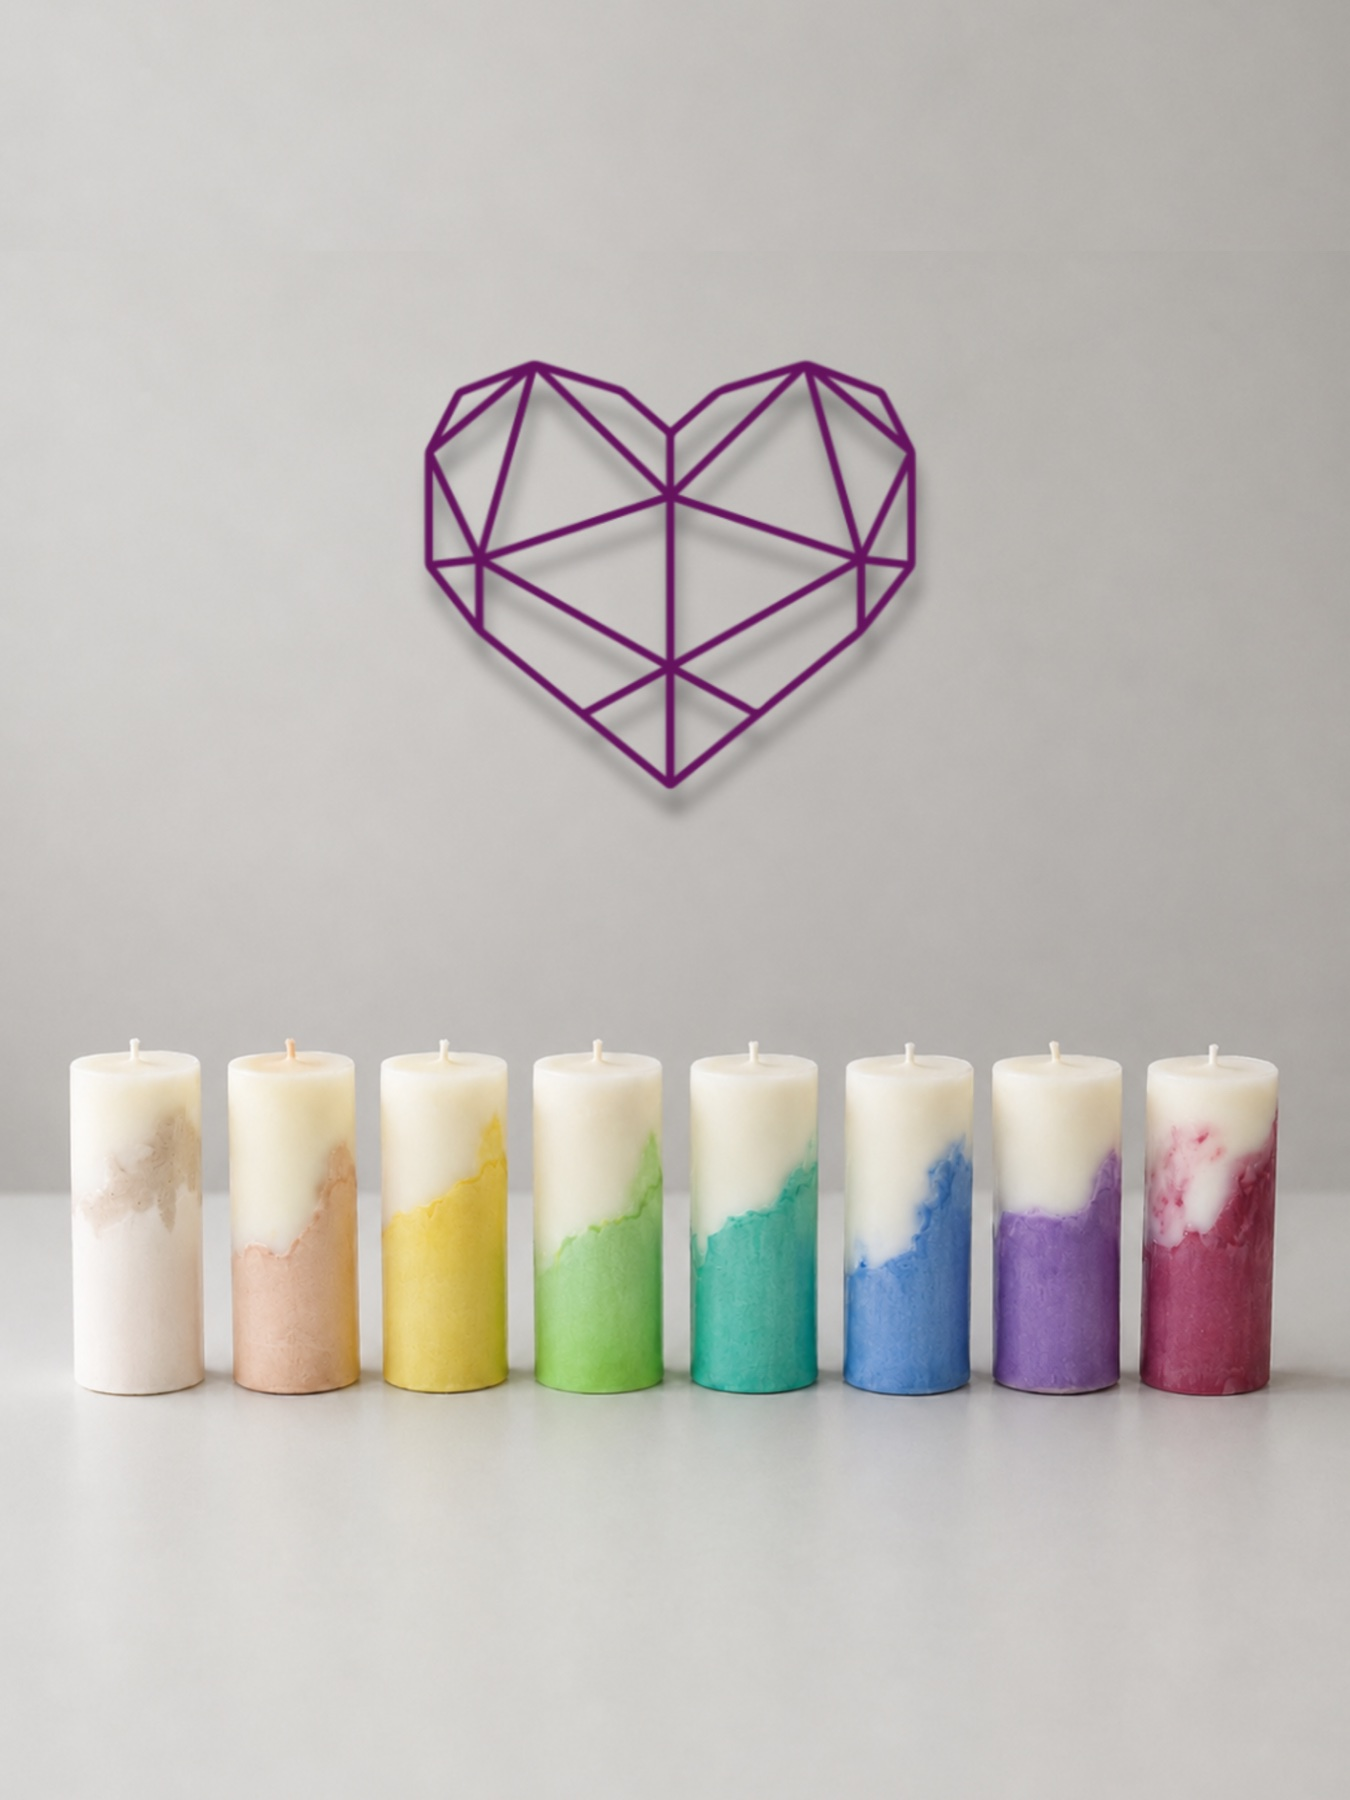
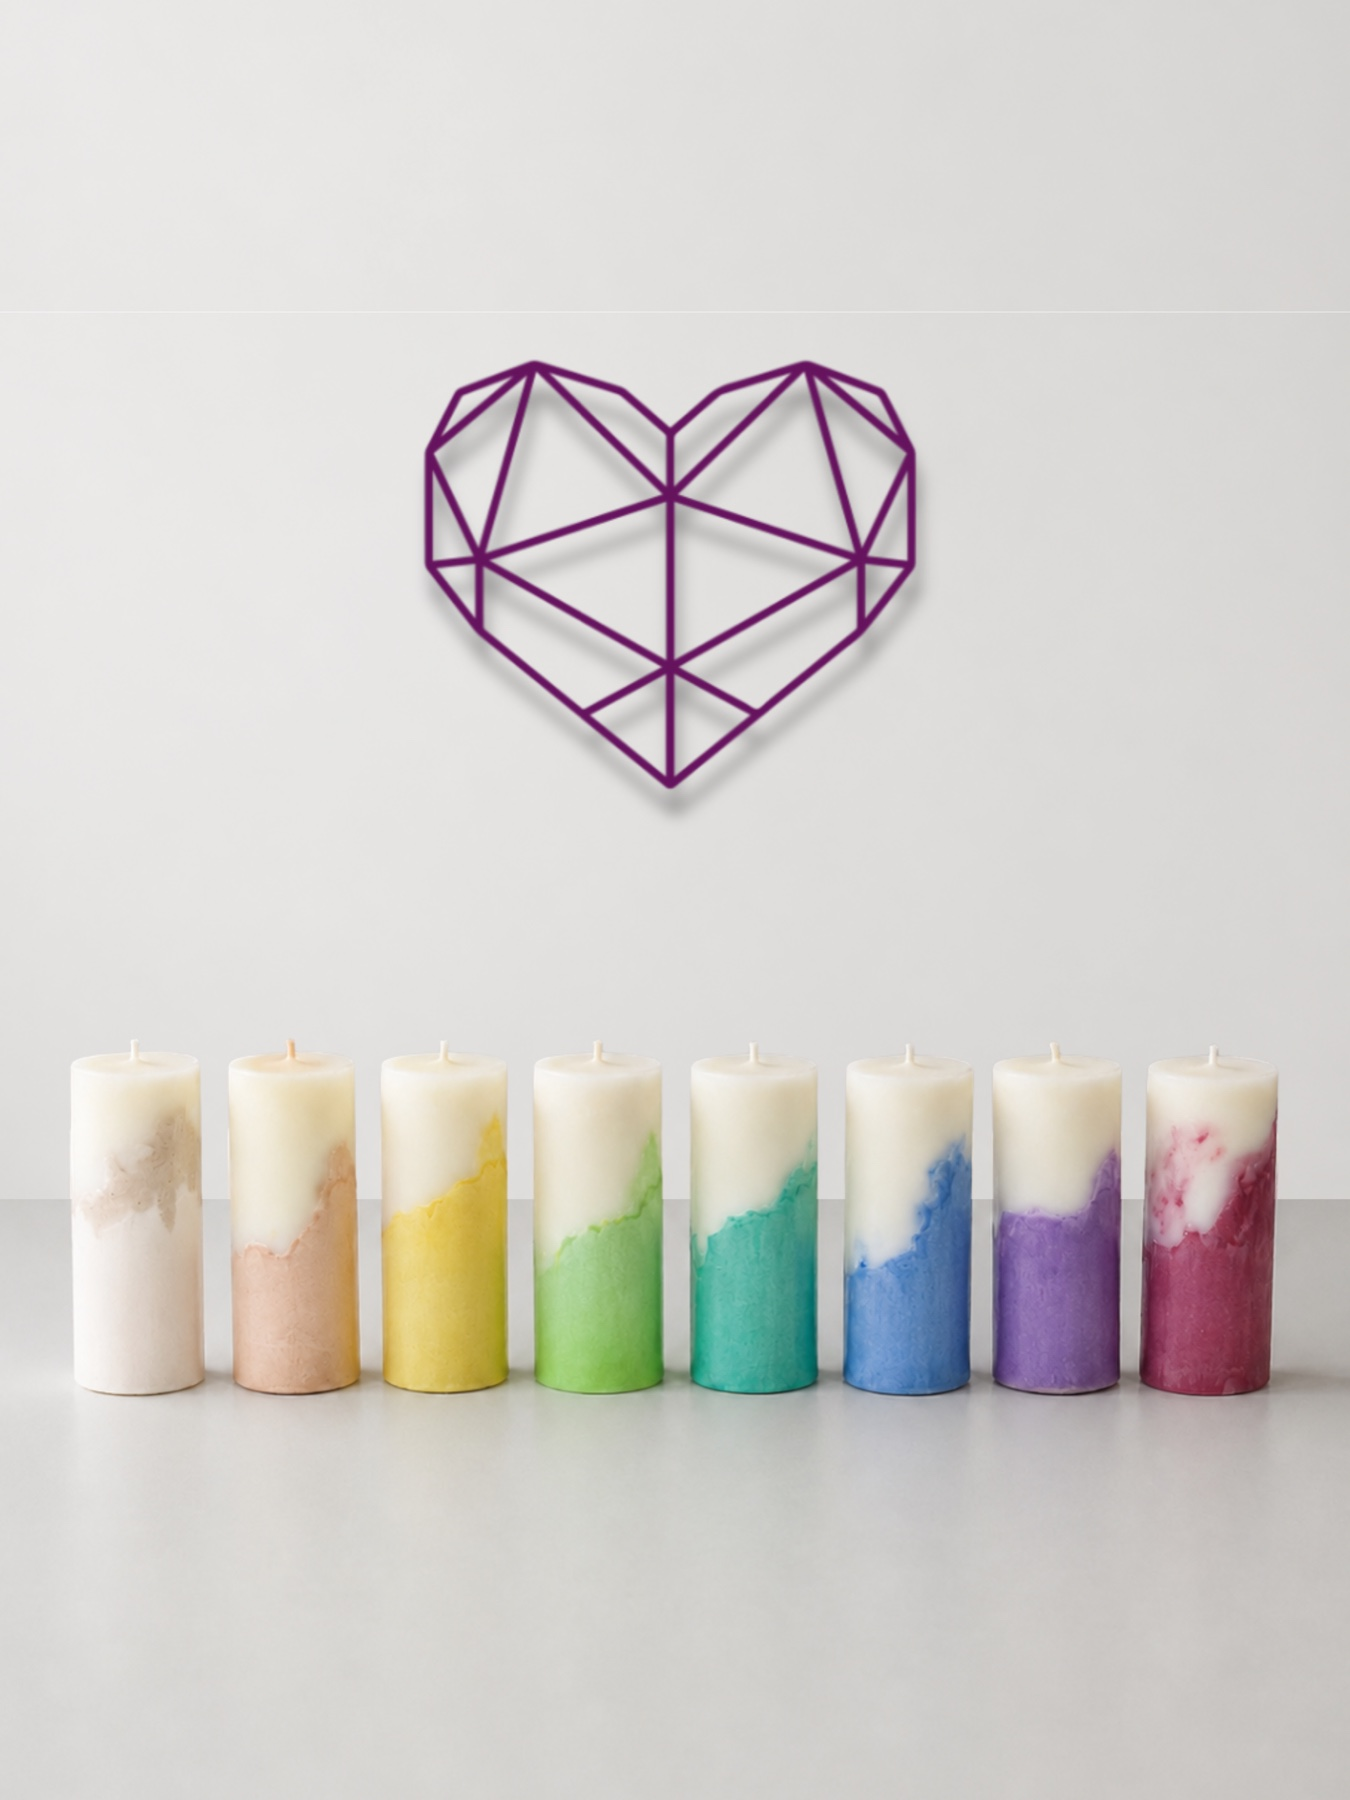
Update product image mappings

diff --git a/index.html b/index.html
@@ -5729,7 +5729,7 @@
       <div class="product-card">
         <div class="product-img has-photo">
           <span class="product-tag">Eventos</span>
-          <img src="assets/products/memoria-perfumada.jpg" alt="Memória Perfumada, lembrança de evento Love Essences" loading="lazy"/>
+          <img src="assets/products/memoria-perfumada.png" alt="Memória Perfumada, lembrança de evento Love Essences" loading="lazy"/>
         </div>
         <div class="product-info">
           <h3 class="product-name">Memória Perfumada</h3>
@@ -6343,7 +6343,7 @@
         </div>
       </div>
       <div class="product-card group rounded-[26px] bg-white/95 shadow-[0_18px_48px_rgba(102,19,94,0.10)] transition duration-300 hover:-translate-y-1 hover:shadow-[0_28px_70px_rgba(102,19,94,0.16)]" data-category="eventos" data-occasion="casamentos-batizados,empresas">
-        <div class="product-img has-photo relative flex items-center justify-center"><img src="assets/products/luz-serena-capa.jpg" alt="Luz Serena, vela pilar personalizada Love Essences" loading="lazy"/></div>
+        <div class="product-img has-photo relative flex items-center justify-center"><img src="assets/products/luz-serena.png" alt="Luz Serena, vela pilar personalizada Love Essences" loading="lazy"/></div>
         <div class="product-info">
           <h3 class="product-name">Luz Serena</h3>
           <p class="product-desc">Vela delicada e perfumada, pensada para iluminar a mesa e deixar uma lembrança doce nos convidados.</p>
@@ -6352,7 +6352,7 @@
         </div>
       </div>
       <div class="product-card group rounded-[26px] bg-white/95 shadow-[0_18px_48px_rgba(102,19,94,0.10)] transition duration-300 hover:-translate-y-1 hover:shadow-[0_28px_70px_rgba(102,19,94,0.16)]" data-category="eventos" data-occasion="casamentos-batizados,empresas">
-        <div class="product-img has-photo relative flex items-center justify-center"><img src="assets/products/doce-luz.jpg" alt="Doce Luz, vela bubble personalizada Love Essences" loading="lazy"/></div>
+        <div class="product-img has-photo relative flex items-center justify-center"><img src="assets/products/doce-luz.png" alt="Doce Luz, vela bubble personalizada Love Essences" loading="lazy"/></div>
         <div class="product-info">
           <h3 class="product-name">Doce Luz</h3>
           <p class="product-desc">Vela bubble com tag e cordão ou com caixa personalizada. Mínimo 15 unidades. Uma lembrança suave e memorável.</p>
@@ -6361,7 +6361,7 @@
         </div>
       </div>
       <div class="product-card group rounded-[26px] bg-white/95 shadow-[0_18px_48px_rgba(102,19,94,0.10)] transition duration-300 hover:-translate-y-1 hover:shadow-[0_28px_70px_rgba(102,19,94,0.16)]" data-category="eventos" data-occasion="casamentos-batizados,empresas">
-        <div class="product-img has-photo relative flex items-center justify-center"><img src="assets/products/memoria-perfumada.jpg" alt="Memória Perfumada, vela em frasco personalizada Love Essences" loading="lazy"/></div>
+        <div class="product-img has-photo relative flex items-center justify-center"><img src="assets/products/memoria-perfumada.png" alt="Memória Perfumada, vela em frasco personalizada Love Essences" loading="lazy"/></div>
         <div class="product-info">
           <h3 class="product-name">Memória Perfumada</h3>
           <p class="product-desc">Vela em frasco com rolha. Aromas suaves, escolhidos para combinar com a ocasião. Encomenda mínima de 10 unidades.</p>
@@ -6370,7 +6370,7 @@
         </div>
       </div>
       <div class="product-card group rounded-[26px] bg-white/95 shadow-[0_18px_48px_rgba(102,19,94,0.10)] transition duration-300 hover:-translate-y-1 hover:shadow-[0_28px_70px_rgba(102,19,94,0.16)]" data-category="eventos" data-occasion="casamentos-batizados,empresas,pequeninos">
-        <div class="product-img has-photo relative flex items-center justify-center"><img src="assets/products/bilhete-perfumado.jpg" alt="Bilhete Perfumado, sabonete floral com cartão Love Essences" loading="lazy"/></div>
+        <div class="product-img has-photo relative flex items-center justify-center"><img src="assets/products/bilhete-perfumado.png" alt="Bilhete Perfumado, sabonete floral com cartão Love Essences" loading="lazy"/></div>
         <div class="product-info">
           <h3 class="product-name">Bilhete Perfumado</h3>
           <p class="product-desc">Sabonete floral com cartão. Mínimo 6 unidades, essência à escolha sujeita a disponibilidade. Um detalhe que fica na memória.</p>
@@ -9197,7 +9197,7 @@ var PRODUCT_CATALOG = {
     name: 'Mini Difusor',
     visual: '🌿',
     image: 'assets/products/mini-difusor4.jpg',
-    gallery: ['assets/products/mini-difusor4.jpg', 'assets/products/mini-difusor3.jpg', 'assets/products/mini-difusor5.jpg'],
+    gallery: ['assets/products/mini-difusor4.jpg', 'assets/products/mini-difusor3.jpg'],
     visualBg: 'linear-gradient(160deg, #f7edf6 0%, #e3bedf 100%)',
     storyTitle: 'A lembrança',
     story: 'O Mini Difusor é uma lembrança simples, delicada e perfumada, pensada para tornar qualquer momento especial ainda mais memorável. Personalizado com etiqueta no tema do evento, é uma opção bonita e acessível para oferecer aos convidados, educadoras ou pessoas especiais.',
@@ -9257,8 +9257,8 @@ var PRODUCT_CATALOG = {
     category: 'Lembranças para Eventos',
     name: 'Luz Serena',
     visual: '🕯',
-    image: 'assets/products/luz-serena-capa.jpg',
-    gallery: ['assets/products/luz-serena-cores.jpg'],
+    image: 'assets/products/luz-serena.png',
+    gallery: ['assets/products/luz-serena3.png', 'assets/products/luz-serena-cores.jpg'],
     visualBg: 'linear-gradient(160deg, #faf1f9 0%, #e3bedf 100%)',
     storyTitle: 'A vela',
     story: 'Uma vela delicada e perfumada, feita para acompanhar momentos especiais com uma luz suave. É uma lembrança querida, elegante e cheia de carinho para oferecer a quem celebrou consigo.',
@@ -9278,7 +9278,7 @@ var PRODUCT_CATALOG = {
     category: 'Lembranças para Eventos',
     name: 'Doce Luz',
     visual: '🕯',
-    image: 'assets/products/doce-luz.jpg',
+    image: 'assets/products/doce-luz.png',
     visualBg: 'linear-gradient(160deg, #faf1f9 0%, #e3bedf 100%)',
     storyTitle: 'A vela',
     story: 'Vela bubble com tag e cordão ou com caixa personalizada. Uma lembrança suave e memorável para eventos delicados.',
@@ -9298,7 +9298,7 @@ var PRODUCT_CATALOG = {
     category: 'Lembranças para Eventos',
     name: 'Memória Perfumada',
     visual: '🕯',
-    image: 'assets/products/memoria-perfumada.jpg',
+    image: 'assets/products/memoria-perfumada.png',
     visualBg: 'linear-gradient(160deg, #faf1f9 0%, #e3bedf 100%)',
     storyTitle: 'A vela',
     story: 'Vela em frasco com rolha, criada como lembrança de eventos. Aromas suaves, escolhidos para combinar com a ocasião.',
@@ -9318,7 +9318,7 @@ var PRODUCT_CATALOG = {
     category: 'Lembranças para Eventos',
     name: 'Bilhete Perfumado',
     visual: '💌',
-    image: 'assets/products/bilhete-perfumado.jpg',
+    image: 'assets/products/bilhete-perfumado.png',
     visualBg: 'linear-gradient(160deg, #faf1f9 0%, #e3bedf 100%)',
     storyTitle: 'O sabonete',
     story: 'Sabonete floral com cartão, criado para ser um detalhe perfumado, simples e muito delicado. A frase ou mensagem pode acompanhar o tema da celebração.',
@@ -10555,10 +10555,10 @@ var CART_IMAGE_MAP = {
   'Essência do Amor (L)': 'assets/products/essencia-amor-l.jpg',
   'Pensar em Ti': 'assets/products/pensar-em-ti.jpg',
   'Lembrei-me de Ti': 'assets/products/lembrei-me-de-ti.jpg',
-  'Luz Serena': 'assets/products/luz-serena-capa.jpg',
-  'Doce Luz': 'assets/products/doce-luz.jpg',
-  'Memória Perfumada': 'assets/products/memoria-perfumada.jpg',
-  'Bilhete Perfumado': 'assets/products/bilhete-perfumado.jpg',
+  'Luz Serena': 'assets/products/luz-serena.png',
+  'Doce Luz': 'assets/products/doce-luz.png',
+  'Memória Perfumada': 'assets/products/memoria-perfumada.png',
+  'Bilhete Perfumado': 'assets/products/bilhete-perfumado.png',
   'Mini Difusor': 'assets/products/mini-difusor4.jpg',
   'Mini Difusor + Mini Sabonete': 'assets/products/mini-difusor-mais-mini-sabonete.jpg',
   'Sopros de Alegria': 'assets/products/sopros-de-alegria.png',

diff --git a/love-essences-v14.html b/love-essences-v14.html
@@ -5729,7 +5729,7 @@
       <div class="product-card">
         <div class="product-img has-photo">
           <span class="product-tag">Eventos</span>
-          <img src="assets/products/memoria-perfumada.jpg" alt="Memória Perfumada, lembrança de evento Love Essences" loading="lazy"/>
+          <img src="assets/products/memoria-perfumada.png" alt="Memória Perfumada, lembrança de evento Love Essences" loading="lazy"/>
         </div>
         <div class="product-info">
           <h3 class="product-name">Memória Perfumada</h3>
@@ -6343,7 +6343,7 @@
         </div>
       </div>
       <div class="product-card group rounded-[26px] bg-white/95 shadow-[0_18px_48px_rgba(102,19,94,0.10)] transition duration-300 hover:-translate-y-1 hover:shadow-[0_28px_70px_rgba(102,19,94,0.16)]" data-category="eventos" data-occasion="casamentos-batizados,empresas">
-        <div class="product-img has-photo relative flex items-center justify-center"><img src="assets/products/luz-serena-capa.jpg" alt="Luz Serena, vela pilar personalizada Love Essences" loading="lazy"/></div>
+        <div class="product-img has-photo relative flex items-center justify-center"><img src="assets/products/luz-serena.png" alt="Luz Serena, vela pilar personalizada Love Essences" loading="lazy"/></div>
         <div class="product-info">
           <h3 class="product-name">Luz Serena</h3>
           <p class="product-desc">Vela delicada e perfumada, pensada para iluminar a mesa e deixar uma lembrança doce nos convidados.</p>
@@ -6352,7 +6352,7 @@
         </div>
       </div>
       <div class="product-card group rounded-[26px] bg-white/95 shadow-[0_18px_48px_rgba(102,19,94,0.10)] transition duration-300 hover:-translate-y-1 hover:shadow-[0_28px_70px_rgba(102,19,94,0.16)]" data-category="eventos" data-occasion="casamentos-batizados,empresas">
-        <div class="product-img has-photo relative flex items-center justify-center"><img src="assets/products/doce-luz.jpg" alt="Doce Luz, vela bubble personalizada Love Essences" loading="lazy"/></div>
+        <div class="product-img has-photo relative flex items-center justify-center"><img src="assets/products/doce-luz.png" alt="Doce Luz, vela bubble personalizada Love Essences" loading="lazy"/></div>
         <div class="product-info">
           <h3 class="product-name">Doce Luz</h3>
           <p class="product-desc">Vela bubble com tag e cordão ou com caixa personalizada. Mínimo 15 unidades. Uma lembrança suave e memorável.</p>
@@ -6361,7 +6361,7 @@
         </div>
       </div>
       <div class="product-card group rounded-[26px] bg-white/95 shadow-[0_18px_48px_rgba(102,19,94,0.10)] transition duration-300 hover:-translate-y-1 hover:shadow-[0_28px_70px_rgba(102,19,94,0.16)]" data-category="eventos" data-occasion="casamentos-batizados,empresas">
-        <div class="product-img has-photo relative flex items-center justify-center"><img src="assets/products/memoria-perfumada.jpg" alt="Memória Perfumada, vela em frasco personalizada Love Essences" loading="lazy"/></div>
+        <div class="product-img has-photo relative flex items-center justify-center"><img src="assets/products/memoria-perfumada.png" alt="Memória Perfumada, vela em frasco personalizada Love Essences" loading="lazy"/></div>
         <div class="product-info">
           <h3 class="product-name">Memória Perfumada</h3>
           <p class="product-desc">Vela em frasco com rolha. Aromas suaves, escolhidos para combinar com a ocasião. Encomenda mínima de 10 unidades.</p>
@@ -6370,7 +6370,7 @@
         </div>
       </div>
       <div class="product-card group rounded-[26px] bg-white/95 shadow-[0_18px_48px_rgba(102,19,94,0.10)] transition duration-300 hover:-translate-y-1 hover:shadow-[0_28px_70px_rgba(102,19,94,0.16)]" data-category="eventos" data-occasion="casamentos-batizados,empresas,pequeninos">
-        <div class="product-img has-photo relative flex items-center justify-center"><img src="assets/products/bilhete-perfumado.jpg" alt="Bilhete Perfumado, sabonete floral com cartão Love Essences" loading="lazy"/></div>
+        <div class="product-img has-photo relative flex items-center justify-center"><img src="assets/products/bilhete-perfumado.png" alt="Bilhete Perfumado, sabonete floral com cartão Love Essences" loading="lazy"/></div>
         <div class="product-info">
           <h3 class="product-name">Bilhete Perfumado</h3>
           <p class="product-desc">Sabonete floral com cartão. Mínimo 6 unidades, essência à escolha sujeita a disponibilidade. Um detalhe que fica na memória.</p>
@@ -9197,7 +9197,7 @@ var PRODUCT_CATALOG = {
     name: 'Mini Difusor',
     visual: '🌿',
     image: 'assets/products/mini-difusor4.jpg',
-    gallery: ['assets/products/mini-difusor4.jpg', 'assets/products/mini-difusor3.jpg', 'assets/products/mini-difusor5.jpg'],
+    gallery: ['assets/products/mini-difusor4.jpg', 'assets/products/mini-difusor3.jpg'],
     visualBg: 'linear-gradient(160deg, #f7edf6 0%, #e3bedf 100%)',
     storyTitle: 'A lembrança',
     story: 'O Mini Difusor é uma lembrança simples, delicada e perfumada, pensada para tornar qualquer momento especial ainda mais memorável. Personalizado com etiqueta no tema do evento, é uma opção bonita e acessível para oferecer aos convidados, educadoras ou pessoas especiais.',
@@ -9257,8 +9257,8 @@ var PRODUCT_CATALOG = {
     category: 'Lembranças para Eventos',
     name: 'Luz Serena',
     visual: '🕯',
-    image: 'assets/products/luz-serena-capa.jpg',
-    gallery: ['assets/products/luz-serena-cores.jpg'],
+    image: 'assets/products/luz-serena.png',
+    gallery: ['assets/products/luz-serena3.png', 'assets/products/luz-serena-cores.jpg'],
     visualBg: 'linear-gradient(160deg, #faf1f9 0%, #e3bedf 100%)',
     storyTitle: 'A vela',
     story: 'Uma vela delicada e perfumada, feita para acompanhar momentos especiais com uma luz suave. É uma lembrança querida, elegante e cheia de carinho para oferecer a quem celebrou consigo.',
@@ -9278,7 +9278,7 @@ var PRODUCT_CATALOG = {
     category: 'Lembranças para Eventos',
     name: 'Doce Luz',
     visual: '🕯',
-    image: 'assets/products/doce-luz.jpg',
+    image: 'assets/products/doce-luz.png',
     visualBg: 'linear-gradient(160deg, #faf1f9 0%, #e3bedf 100%)',
     storyTitle: 'A vela',
     story: 'Vela bubble com tag e cordão ou com caixa personalizada. Uma lembrança suave e memorável para eventos delicados.',
@@ -9298,7 +9298,7 @@ var PRODUCT_CATALOG = {
     category: 'Lembranças para Eventos',
     name: 'Memória Perfumada',
     visual: '🕯',
-    image: 'assets/products/memoria-perfumada.jpg',
+    image: 'assets/products/memoria-perfumada.png',
     visualBg: 'linear-gradient(160deg, #faf1f9 0%, #e3bedf 100%)',
     storyTitle: 'A vela',
     story: 'Vela em frasco com rolha, criada como lembrança de eventos. Aromas suaves, escolhidos para combinar com a ocasião.',
@@ -9318,7 +9318,7 @@ var PRODUCT_CATALOG = {
     category: 'Lembranças para Eventos',
     name: 'Bilhete Perfumado',
     visual: '💌',
-    image: 'assets/products/bilhete-perfumado.jpg',
+    image: 'assets/products/bilhete-perfumado.png',
     visualBg: 'linear-gradient(160deg, #faf1f9 0%, #e3bedf 100%)',
     storyTitle: 'O sabonete',
     story: 'Sabonete floral com cartão, criado para ser um detalhe perfumado, simples e muito delicado. A frase ou mensagem pode acompanhar o tema da celebração.',
@@ -10555,10 +10555,10 @@ var CART_IMAGE_MAP = {
   'Essência do Amor (L)': 'assets/products/essencia-amor-l.jpg',
   'Pensar em Ti': 'assets/products/pensar-em-ti.jpg',
   'Lembrei-me de Ti': 'assets/products/lembrei-me-de-ti.jpg',
-  'Luz Serena': 'assets/products/luz-serena-capa.jpg',
-  'Doce Luz': 'assets/products/doce-luz.jpg',
-  'Memória Perfumada': 'assets/products/memoria-perfumada.jpg',
-  'Bilhete Perfumado': 'assets/products/bilhete-perfumado.jpg',
+  'Luz Serena': 'assets/products/luz-serena.png',
+  'Doce Luz': 'assets/products/doce-luz.png',
+  'Memória Perfumada': 'assets/products/memoria-perfumada.png',
+  'Bilhete Perfumado': 'assets/products/bilhete-perfumado.png',
   'Mini Difusor': 'assets/products/mini-difusor4.jpg',
   'Mini Difusor + Mini Sabonete': 'assets/products/mini-difusor-mais-mini-sabonete.jpg',
   'Sopros de Alegria': 'assets/products/sopros-de-alegria.png',
